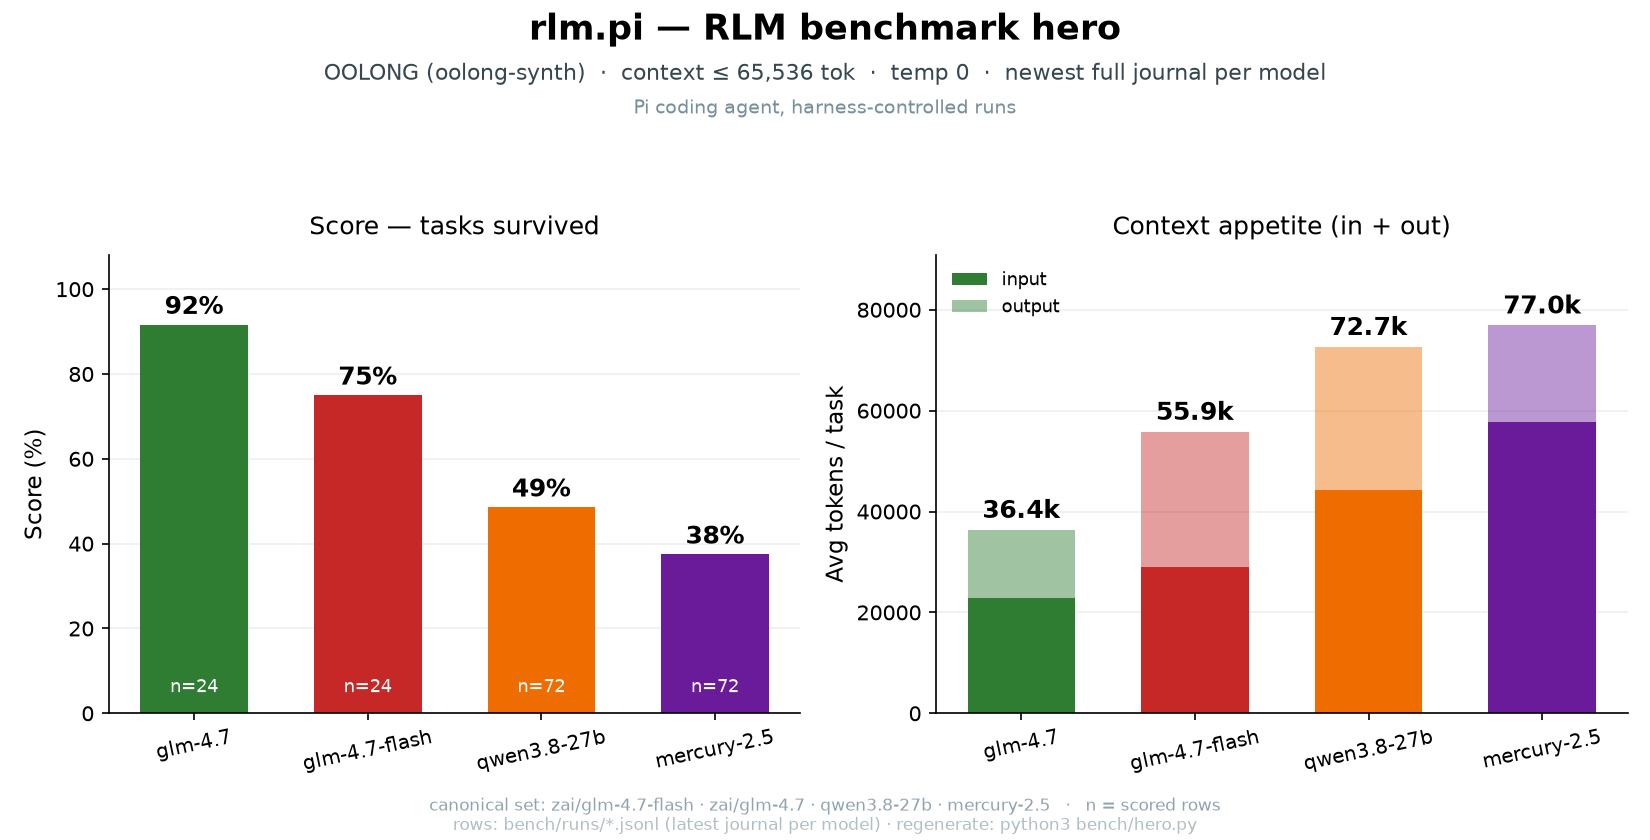
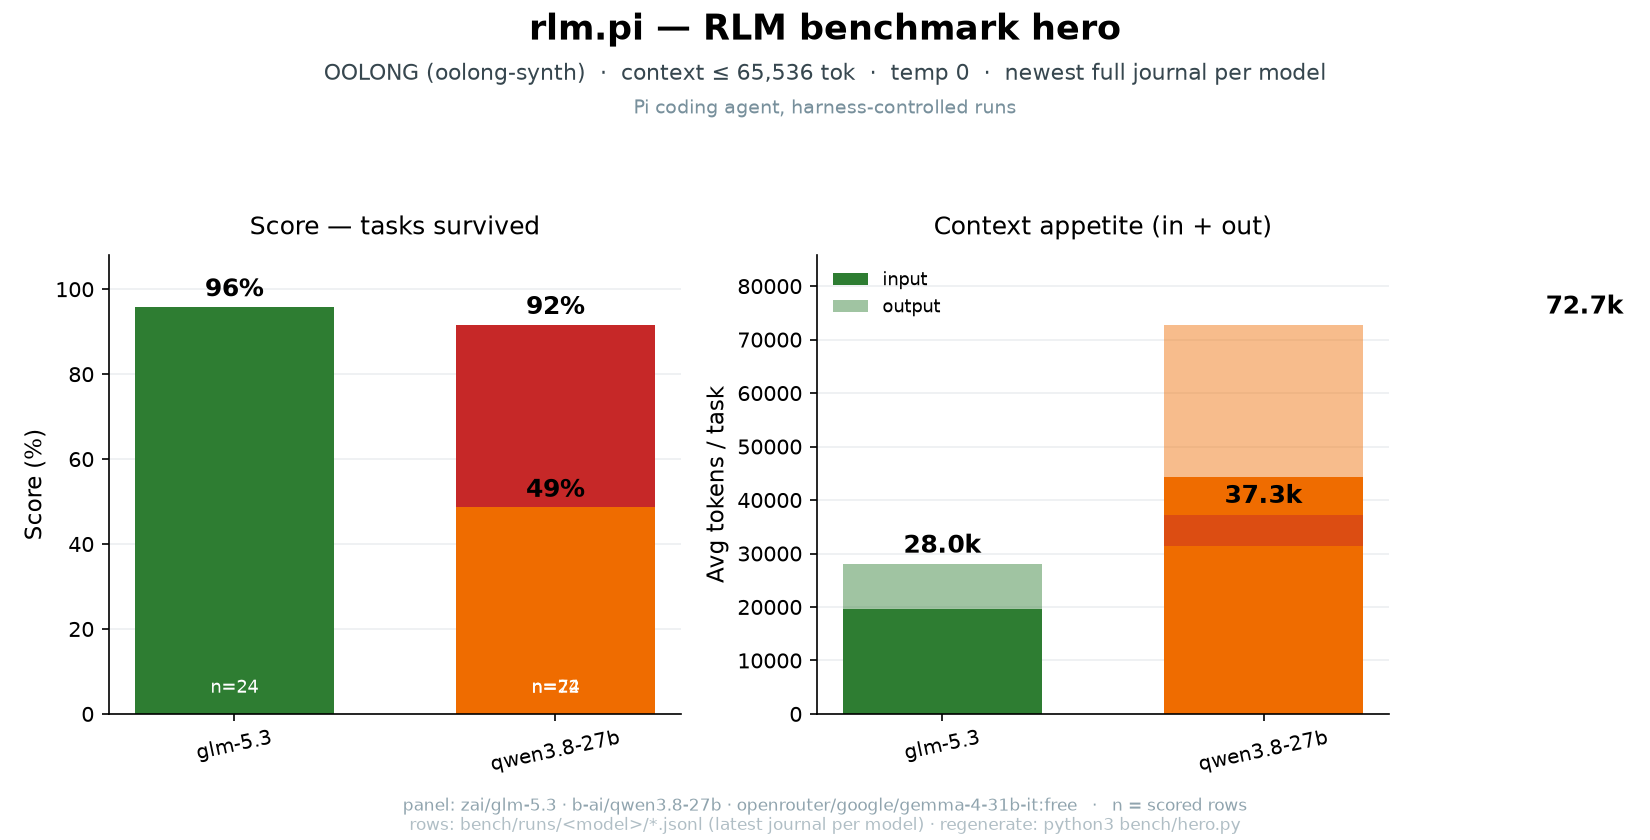
bench(qwen3.8,panel): add b-ai/qwen3.8-27b full24 journal (22/24, 91.7%), switch panel to google/gemma-4-31b-it:free, and regenerate hero.png

diff --git a/README.ru.md b/README.ru.md
@@ -51,9 +51,9 @@
 
 | Модель | OOLONG | Токенов/задача | Цена/задача |
 |---|---|---|---|
-| `zai/glm-5.3` | ожидается | — | — |
-| `b-ai/qwen3.8-27b` | ожидается | — | — |
-| `openrouter/openai/gpt-oss-120b` | ожидается | — | — |
+| `zai/glm-5.3` | **95.8%** (23/24) | **~28k** | ~$0.00 \* |
+| `b-ai/qwen3.8-27b` | **91.7%** (22/24) | ~37k | ~$0.00 \* |
+| `openrouter/google/gemma-4-31b-it:free` | ожидается | — | — |
 
 Список моделей — в [`bench/panel.json`](bench/panel.json). У каждой модели своя папка
 результатов: `bench/runs/<model>/`. Запуск всех моделей:

diff --git a/pi-plugin/rlm/README.ru.md b/pi-plugin/rlm/README.ru.md
@@ -36,9 +36,9 @@ pi uninstall npm:@hicaru/pi-rlm
 
 | Модель | OOLONG | Токенов/задача | Цена/задача |
 |---|---|---|---|
-| `zai/glm-5.3` | ожидается | — | — |
-| `b-ai/qwen3.8-27b` | ожидается | — | — |
-| `openrouter/openai/gpt-oss-120b` | ожидается | — | — |
+| `zai/glm-5.3` | **95.8%** (23/24) | **~28k** | ~$0.00 \* |
+| `b-ai/qwen3.8-27b` | **91.7%** (22/24) | ~37k | ~$0.00 \* |
+| `openrouter/google/gemma-4-31b-it:free` | ожидается | — | — |
 
 Список моделей — в `bench/panel.json`. Результаты — в `bench/runs/<model>/`.
 Как запустить бенчмарк — см.

diff --git a/README.md b/README.md
@@ -51,9 +51,9 @@ The benchmark is **OOLONG** (oolong-synth): 24 tasks, context up to 65,536 token
 
 | Model | OOLONG | Tokens/task | Cost/task |
 |---|---|---|---|
-| `zai/glm-5.3` | pending | — | — |
-| `b-ai/qwen3.8-27b` | pending | — | — |
-| `openrouter/openai/gpt-oss-120b` | pending | — | — |
+| `zai/glm-5.3` | **95.8%** (23/24) | **~28k** | ~$0.00 \* |
+| `b-ai/qwen3.8-27b` | **91.7%** (22/24) | ~37k | ~$0.00 \* |
+| `openrouter/google/gemma-4-31b-it:free` | pending | — | — |
 
 The model list is in [`bench/panel.json`](bench/panel.json). Each model has its own
 results folder: `bench/runs/<model>/`. To run all models:

diff --git a/pi-plugin/rlm/README.zh-CN.md b/pi-plugin/rlm/README.zh-CN.md
@@ -39,9 +39,9 @@ pi uninstall npm:@hicaru/pi-rlm
 
 | 模型 | OOLONG | token/任务 | 成本/任务 |
 |---|---|---|---|
-| `zai/glm-5.3` | 待测 | — | — |
-| `b-ai/qwen3.8-27b` | 待测 | — | — |
-| `openrouter/openai/gpt-oss-120b` | 待测 | — | — |
+| `zai/glm-5.3` | **95.8%** (23/24) | **~28k** | ~$0.00 \* |
+| `b-ai/qwen3.8-27b` | **91.7%** (22/24) | ~37k | ~$0.00 \* |
+| `openrouter/google/gemma-4-31b-it:free` | 待测 | — | — |
 
 模型列表见 `bench/panel.json`，结果见 `bench/runs/<model>/`。
 运行方法见[根目录 README](https://github.com/openzebra/rlm.pi/blob/master/README.zh-CN.md#基准测试)。

diff --git a/pi-plugin/rlm/README.md b/pi-plugin/rlm/README.md
@@ -43,9 +43,9 @@ The benchmark is **OOLONG** (oolong-synth): 24 tasks, context up to 65,536 token
 
 | Model | OOLONG | Tokens/task | Cost/task |
 |---|---|---|---|
-| `zai/glm-5.3` | pending | — | — |
-| `b-ai/qwen3.8-27b` | pending | — | — |
-| `openrouter/openai/gpt-oss-120b` | pending | — | — |
+| `zai/glm-5.3` | **95.8%** (23/24) | **~28k** | ~$0.00 \* |
+| `b-ai/qwen3.8-27b` | **91.7%** (22/24) | ~37k | ~$0.00 \* |
+| `openrouter/google/gemma-4-31b-it:free` | pending | — | — |
 
 The model list is in `bench/panel.json`. The results are in `bench/runs/<model>/`.
 To run the benchmark, see the

diff --git a/README.zh-CN.md b/README.zh-CN.md
@@ -51,9 +51,9 @@
 
 | 模型 | OOLONG | token/任务 | 成本/任务 |
 |---|---|---|---|
-| `zai/glm-5.3` | 待测 | — | — |
-| `b-ai/qwen3.8-27b` | 待测 | — | — |
-| `openrouter/openai/gpt-oss-120b` | 待测 | — | — |
+| `zai/glm-5.3` | **95.8%** (23/24) | **~28k** | ~$0.00 \* |
+| `b-ai/qwen3.8-27b` | **91.7%** (22/24) | ~37k | ~$0.00 \* |
+| `openrouter/google/gemma-4-31b-it:free` | 待测 | — | — |
 
 模型列表见 [`bench/panel.json`](bench/panel.json)。每个模型有自己的结果目录：
 `bench/runs/<model>/`。运行全部模型：

diff --git a/bench/README.md b/bench/README.md
@@ -12,7 +12,7 @@ list: `run.ts` and `hero.py` both read it.
 |---|---|
 | `zai/glm-5.3` | `ZAI_API_KEY` (Z.ai coding-plan endpoint) |
 | `b-ai/qwen3.8-27b` | `BAI_API_KEY` (`https://api.b.ai/v1`) |
-| `openrouter/openai/gpt-oss-120b` | `OPENROUTER_API_KEY` |
+| `openrouter/google/gemma-4-31b-it:free` | `OPENROUTER_API_KEY` |
 
 To change the panel, edit `panel.json`. Do not add model names to the code.
 
